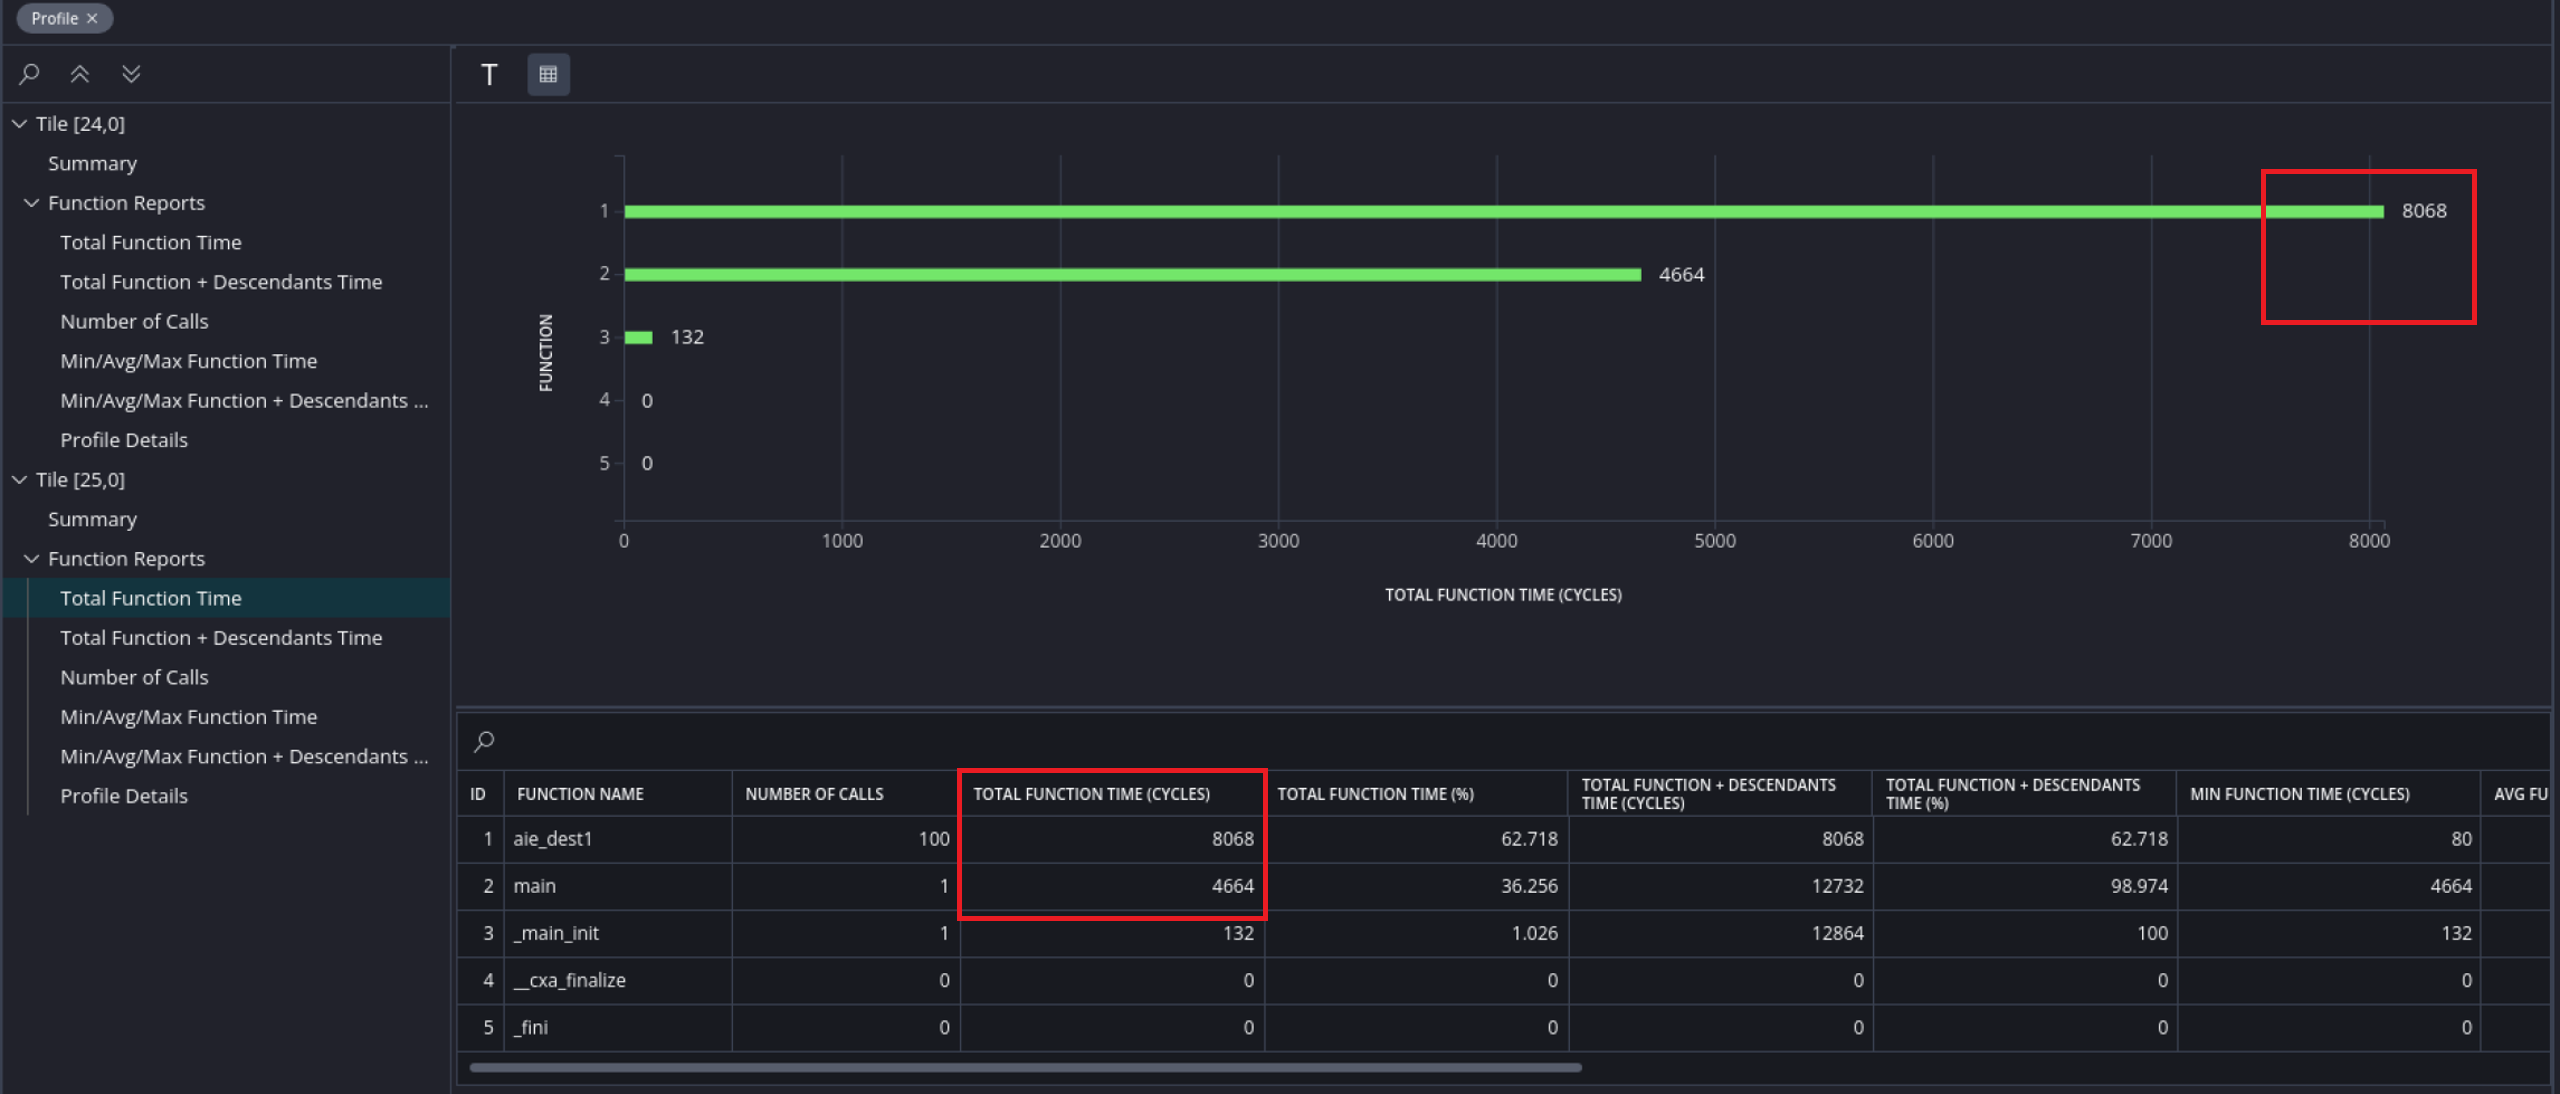
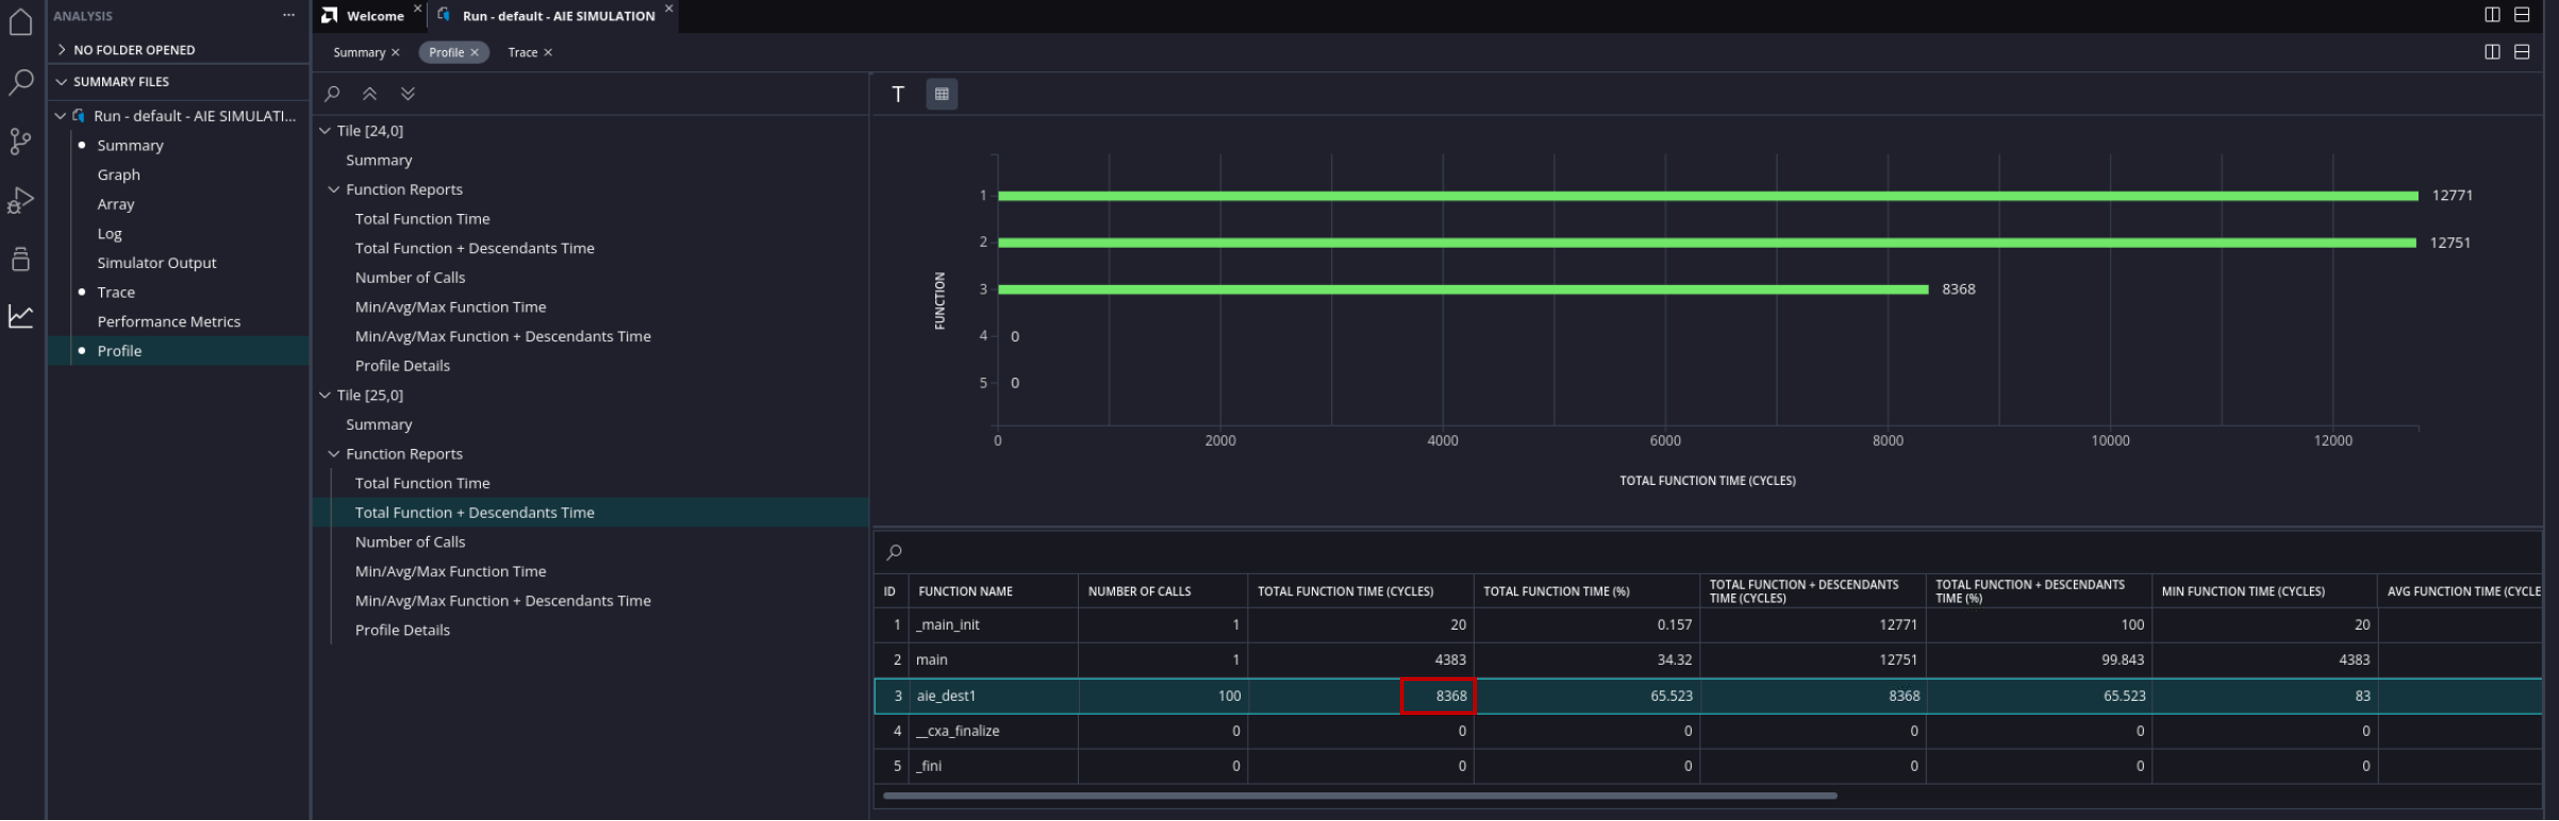
AIE/F/13: Update to 2023.2 and use unified CLI

diff --git a/AI_Engine_Development/AIE/Feature_Tutorials/13-aie-performance-analysis/aie_execution_measurement.md b/AI_Engine_Development/AIE/Feature_Tutorials/13-aie-performance-analysis/aie_execution_measurement.md
@@ -10,7 +10,7 @@
 
 # AI Engine Graph Execution and Measurement
 
-***Version: Vitis 2023.1***
+***Version: Vitis 2023.2***
 
 AI Engine graph execution uses locks for memory synchronization. The stream interfaces have inherent data synchronization through backward or forward pressure.
 
@@ -141,16 +141,16 @@ There are multiple ways to measure performance:
 
 
     ```
-    T 662400 ns
+    T 652800 ns
     2 
     ......
-    T 10899200 ns
+    T 10889600 ns
     30 
     ```
 
-    The first samples come out in `662400 ps`, and the last samples come out in `10899200 ps`. The throughput therefore can be calculated as follows:
+    The first samples come out in `652800 ps`, and the last samples come out in `10889600 ps`. The throughput therefore can be calculated as follows:
 
-        Total time = 10899200 - 662400 = 10236800 ps
+        Total time = 10889600 - 652800 = 10236800 ps
         Total bytes = 128 * 100 = 12800 bytes
         Throughput = 12800/(10236800*1e-6) = 1250.3 MB/s
         
@@ -185,8 +185,8 @@ There are multiple ways to measure performance:
     The output of AI Engine simulator looks like the following:
 
     ```
-    cycle count:12648
-    Throughput of the graph: 1265.022138 MB/s
+    cycle count:12665
+    Throughput of the graph: 1263.324122 MB/s
     ```
 
     The event API can be applied in AI Engine simulator, hardware emulation, and hardware flows.
@@ -195,7 +195,7 @@ There are multiple ways to measure performance:
 
     ![Profile View](./images/figure3.PNG)
 
-    Kernel `aie_dest1` takes 8068 cycles for 100 iterations. The `main` function takes 4664 cycles for 100 iterations of the graph. This is around 47 cycles of overhead for each iteration of the graph. This overhead includes the lock acquires of the buffers and the overhead of API calls.
+    Kernel `aie_dest1` takes 8368 cycles for 100 iterations. The `main` function takes 4383 cycles for 100 iterations of the graph. This is around 44 cycles of overhead for each iteration of the graph. This overhead includes the lock acquires of the buffers and the overhead of API calls.
 
     The performance of `aie_dest1` is bounded by the stream interface throughput. The theoretical limit is up to 4 bytes a cycle (5 GB/s), and there are 128 bytes of input for one run. This means that it at least has 32 cycles for the main loop, although it takes 80 cycles. This indicates that the loop is not well-pipelined.
 
@@ -203,7 +203,7 @@ There are multiple ways to measure performance:
 
     ![PL_TO_SHIM](./images/figure4.PNG)
 
-    Search it for multiple times. When it is stable, it can be seen that every eight cycles, it happens once. This is because the frequency of the PL has been set at 312.5 MHz by the option `--pl-freq=312.5` for the AI Engine compiler and AI Engine-PL interface is 32-bit width, which is one-fourth of the best achievable performance. 
+    Search it for multiple times. When it is stable, it can be seen that every eight cycles, it happens once. This is because the frequency of the PL has been set at 312.5 MHz by the option `pl-freq=312.5` for the AI Engine compiler and AI Engine-PL interface is 32-bit width, which is one-fourth of the best achievable performance. 
 
     From a best performance and best resource perspective, you might select a 64-bit interface at 625 MHz if timing allows. If not, it is possible to have the PL running at 312.5 MHz with a 128-bit width interface. 
     

diff --git a/AI_Engine_Development/AIE/Feature_Tutorials/13-aie-performance-analysis/README.md b/AI_Engine_Development/AIE/Feature_Tutorials/13-aie-performance-analysis/README.md
@@ -10,7 +10,7 @@
 
 # AI Engine Performance and Deadlock Analysis Tutorial
 
-***Version: Vitis 2023.1***
+***Version: Vitis 2023.2***
 
 ## Introduction
 
@@ -18,18 +18,18 @@ This tutorial introduces you to performance analysis and optimization methods, a
 
 ## Before You Begin
 
-**IMPORTANT**: Before beginning the tutorial, make sure that you have installed the AMD Vitis&trade; 2023.1 software.  The Vitis release includes all the embedded base platforms, including the VCK190 base platform that is used in this tutorial. In addition, ensure that you have downloaded the Common Images for Embedded Vitis Platforms from this link https://www.xilinx.com/support/download/index.html/content/xilinx/en/downloadNav/embedded-platforms.html
+**IMPORTANT**: Before beginning the tutorial, make sure that you have installed the AMD Vitis&trade; 2023.2 software.  The Vitis release includes all the embedded base platforms, including the VCK190 base platform that is used in this tutorial. In addition, ensure that you have downloaded the Common Images for Embedded Vitis Platforms from this link https://www.xilinx.com/support/download/index.html/content/xilinx/en/downloadNav/embedded-platforms.html
 
 The ‘common image’ package contains a prebuilt Linux kernel and root file system that can be used with the AMD Versal&trade; board for embedded design development using Vitis.
 
 Before starting this tutorial, run the following steps:
 
 1. Go to the directory where you have unzipped the Versal Common Image package.
-2. In a Bash shell, run the /**Common Images Dir**/xilinx-versal-common-v2023.1/environment-setup-cortexa72-cortexa53-xilinx-linux script. This script sets up the SDKTARGETSYSROOT and CXX variables. If the script is not present, you **must** run the /**Common Images Dir**/xilinx-versal-common-v2023.1/sdk.sh.
-3. Set up your ROOTFS, and IMAGE to point to the rootfs.ext4 and Image files located in the /**Common Images Dir**/xilinx-versal-common-v2023.1 directory.
+2. In a Bash shell, run the /**Common Images Dir**/xilinx-versal-common-v2023.2/environment-setup-cortexa72-cortexa53-xilinx-linux script. This script sets up the SDKTARGETSYSROOT and CXX variables. If the script is not present, you **must** run the /**Common Images Dir**/xilinx-versal-common-v2023.2/sdk.sh.
+3. Set up your ROOTFS, and IMAGE to point to the rootfs.ext4 and Image files located in the /**Common Images Dir**/xilinx-versal-common-v2023.2 directory.
 4. Set up your PLATFORM_REPO_PATHS environment variable to $XILINX_VITIS/base_platforms.
 
-This tutorial targets VCK190 production board for 2023.1 version.
+This tutorial targets VCK190 production board for 2023.2 version.
 
 ### Objectives
 

diff --git a/AI_Engine_Development/AIE/Feature_Tutorials/13-aie-performance-analysis/aie_status_analysis.md b/AI_Engine_Development/AIE/Feature_Tutorials/13-aie-performance-analysis/aie_status_analysis.md
@@ -10,7 +10,7 @@
 
 # AI Engine Status Analysis
 
-***Version: Vitis 2023.1***
+***Version: Vitis 2023.2***
 
 This tutorial shows you how to output a summary of the AI Engine status for further analysis in an AMD Vitis&trade; Analyzer. The main methods to output AI Engine status are as follows:
 
@@ -86,8 +86,6 @@ Open the run summary file with the following command:
 		vitis_analyzer xrt.run_summary
 
 In Vitis Analyzer, click **Set Compile Directory** in Summary view. 
-
-![set compile summary](./images/aie_status1.PNG)
 
 In the prompted dialog box, click the **...** button, and select the AI Engine compile summary (such as `./Work/graph.aiecompile_summary`) to set the AI Engine compile summary. 
 

diff --git a/AI_Engine_Development/AIE/Feature_Tutorials/13-aie-performance-analysis/aie_hang_analysis.md b/AI_Engine_Development/AIE/Feature_Tutorials/13-aie-performance-analysis/aie_hang_analysis.md
@@ -10,7 +10,7 @@
 
 # AI Engine Deadlock Analysis
 
-***Version: Vitis 2023.1***
+***Version: Vitis 2023.2***
 
 This tutorial introduces you to some common deadlock scenarios and shows you how to detect deadlocks (design hangs) in different tool flows. The methods introduced to detect and analyze deadlock issues include:
 
